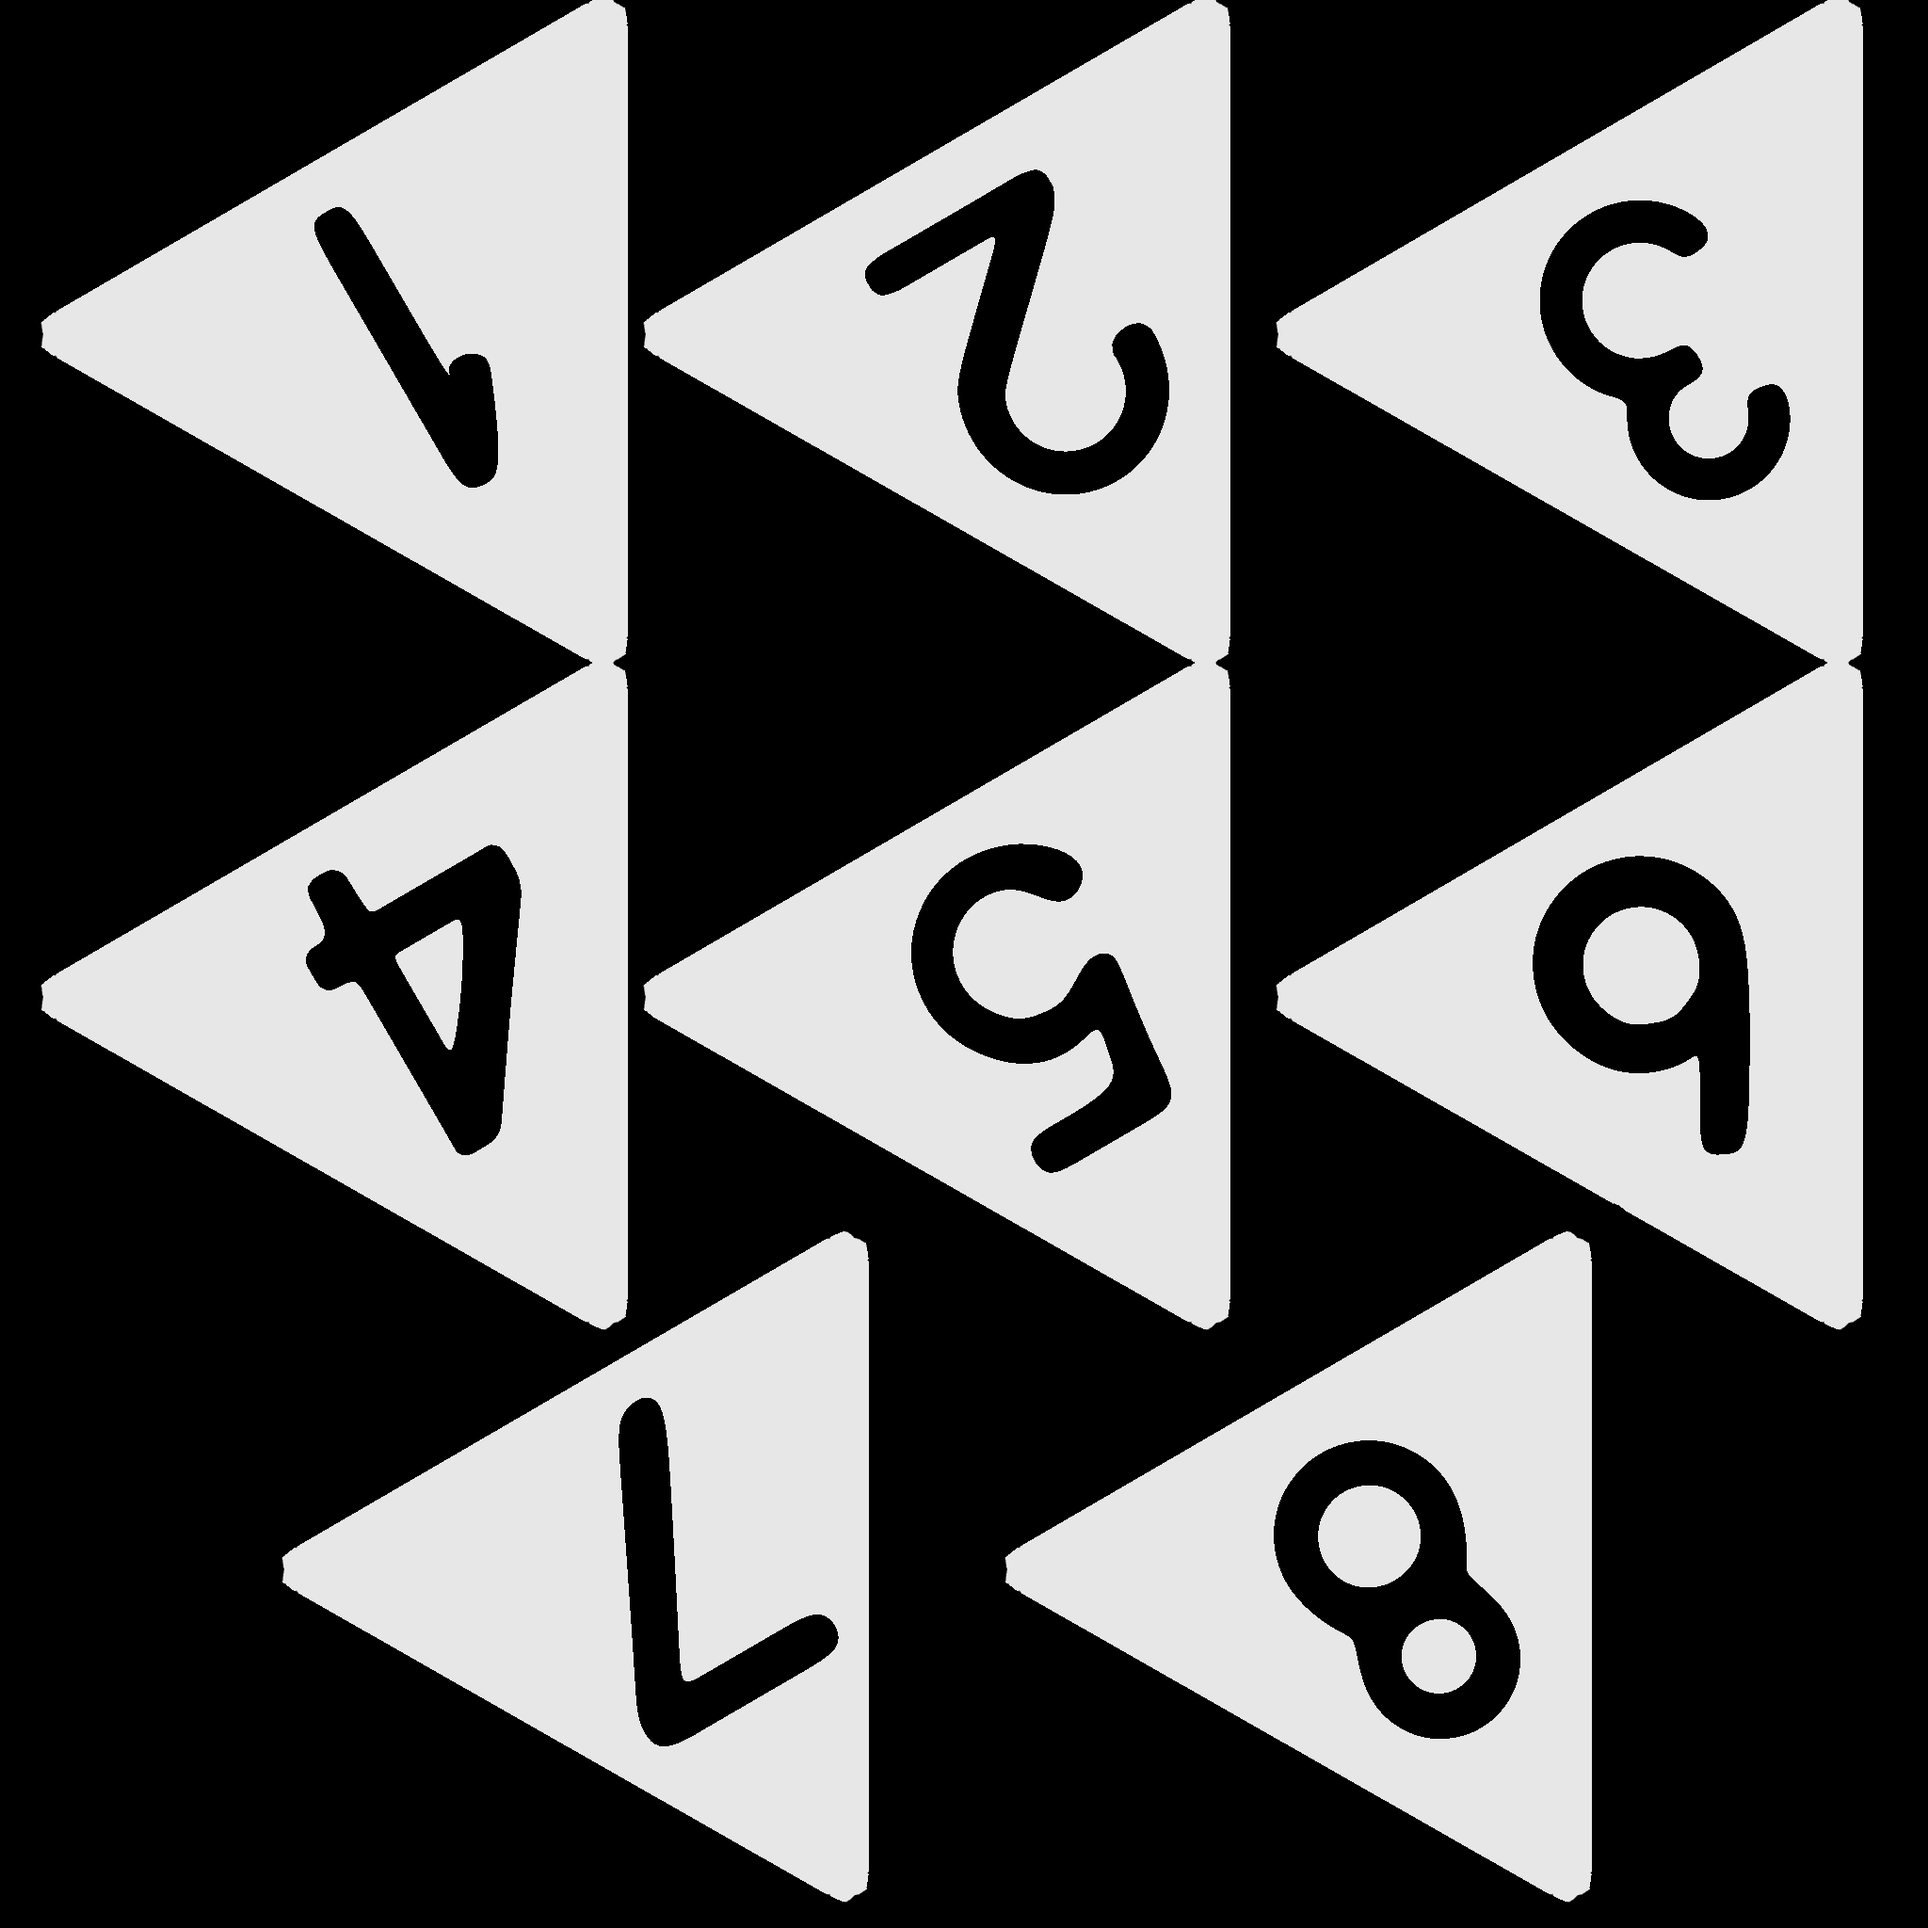
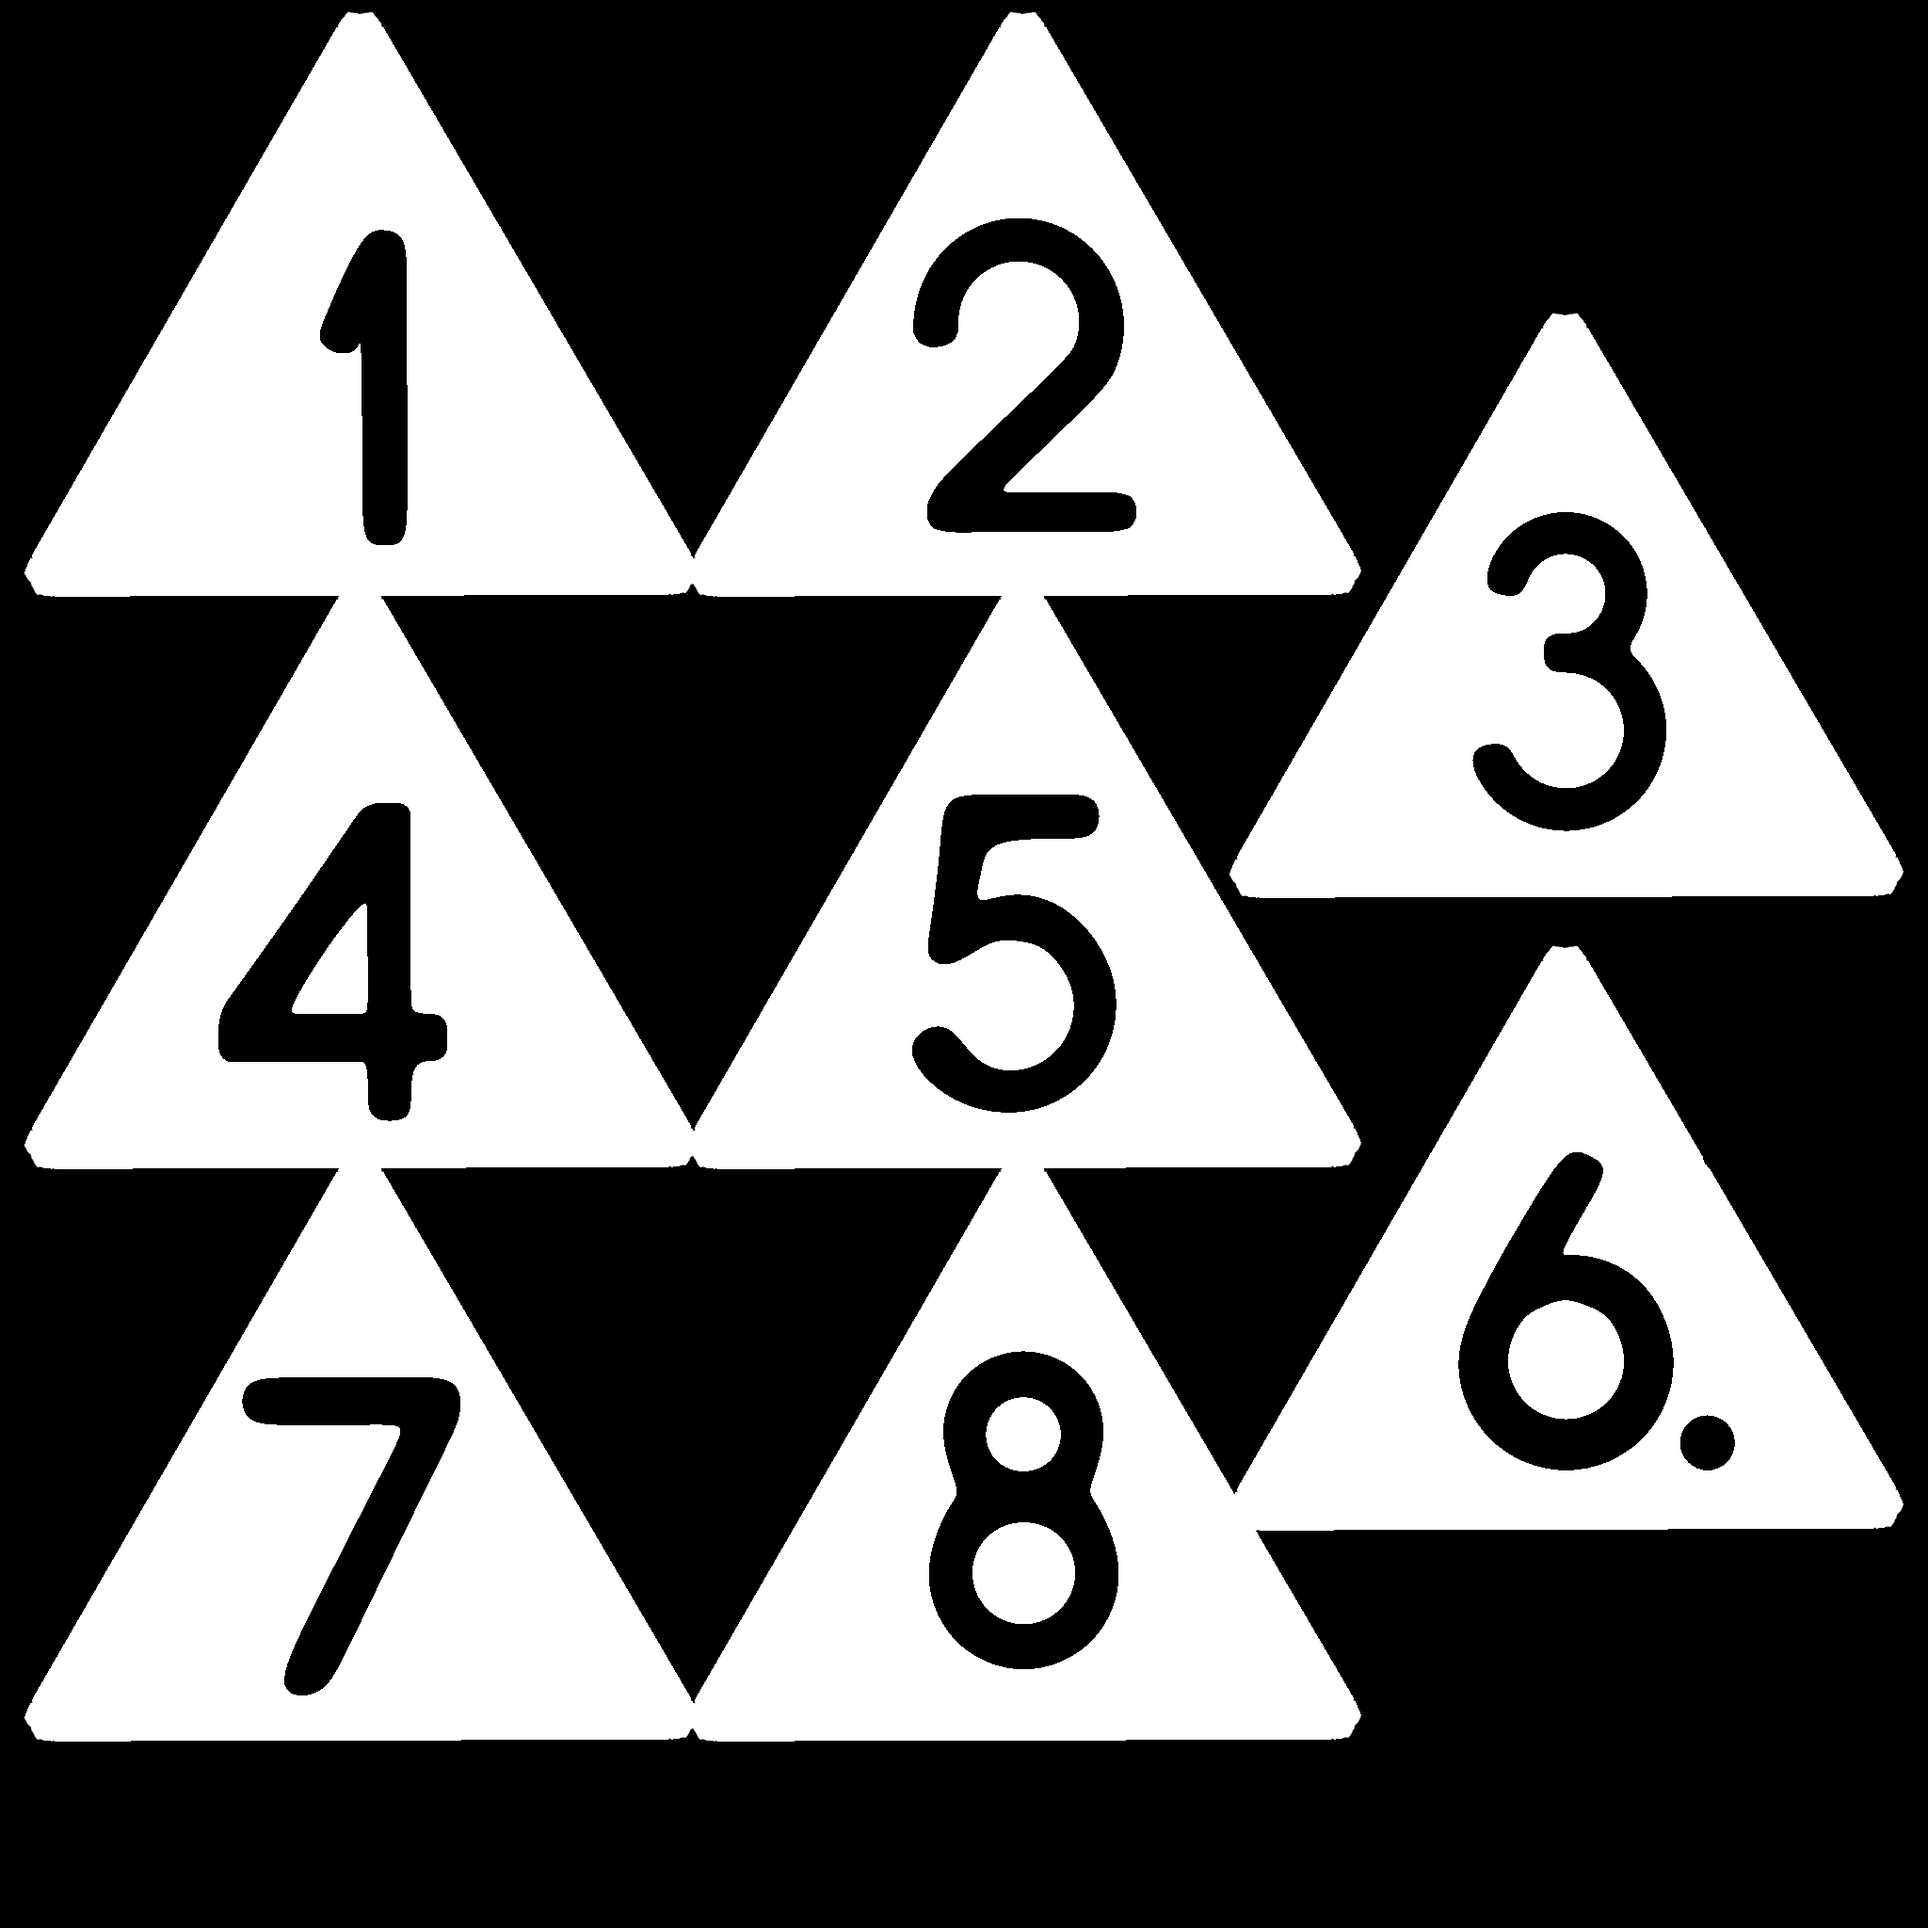
Fix UV + Texture Rotations To Be Upright (#22)
* Add D8

* D8 Face Rotation Fixups

* D8 UV Fixes

* D8 Fixes

* Added Default Rotation

diff --git a/src/assets/d8/index.ts b/src/assets/d8/index.ts
@@ -7,6 +7,7 @@ export const d8 = {
   name: "D8 Dice",
   src,
   scale: [0.016, 0.016, 0.016], //Scaled to fit inside a 16mm^3 cube
+  rotation: [-55, 0, 0],
   faces: [
     { name: "1", rotation: [-55, 0, 0] },
     { name: "2", rotation: [125, 0, 0] },
